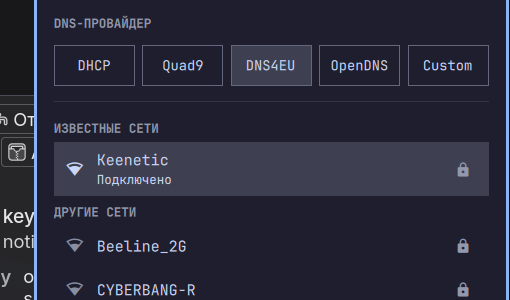
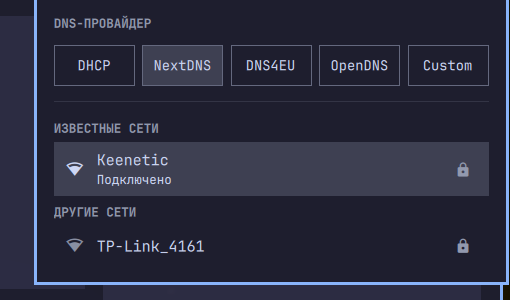
1.1.1: NextDNS replaces Quad9, prompt-only, tested-in-RU notes

diff --git a/Panel.qml b/Panel.qml
@@ -138,7 +138,7 @@ Panel {
   readonly property bool speedHeaderHasCursor: cursorActive && focusSection === "header" && headerIndex === speedHeaderIndex
   readonly property bool toggleHeaderHasCursor: cursorActive && focusSection === "header" && headerIndex === toggleHeaderIndex
   readonly property string toggleHint: Networking.wifiEnabled ? "Выключить Wi-Fi" : "Включить Wi-Fi"
-  readonly property var dnsProviders: ["DHCP", "Quad9", "DNS4EU", "OpenDNS", "Custom"]
+  readonly property var dnsProviders: ["DHCP", "NextDNS", "DNS4EU", "OpenDNS", "Custom"]
   property int dnsIndex: 0
   // ["2.4", "5", ...], or empty when there is nothing to choose between.
   // Wi-Fi only: on Ethernet the band of a secondary radio is not what the
@@ -1434,9 +1434,9 @@ Panel {
           }
 
           DnsProviderPill {
-            provider: "Quad9"
+            provider: "NextDNS"
             index: 1
-            tooltipText: "Set DNS to Quad9 (9.9.9.9)"
+            tooltipText: "Задать DNS NextDNS (45.90.28.0)"
             width: dnsRow.cellWidth
             onClicked: root.setDns(provider)
           }

diff --git a/README.md b/README.md
@@ -2,13 +2,13 @@
 
 ## Зачем / Why
 
-**RU:** Стоковый виджет предлагает Cloudflare (1.1.1.1) и Google (8.8.8.8) — оба заблокированы/заглушены в России. Этот форк меняет пилюли на рабочие: Quad9 (9.9.9.9), DNS4EU (86.54.11.100), OpenDNS + Custom. DNS4EU заменил мёртвый dns0.eu (не отвечает больше года): для России это рабочий и быстрый вариант (~1 мс, замерено), плюс EU-юрисдикция. Плюс: виджет обновляет состояние после смены DNS (в стоке залипает «нет подключения»). Временное решение, пока мейнтейнеры не разрешат локальные пресеты (upstream issue: RU DNS presets).
+**RU:** Стоковый виджет предлагает Cloudflare (1.1.1.1) и Google (8.8.8.8) — оба заблокированы/заглушены в России. Этот форк меняет пилюли на рабочие: NextDNS (45.90.28.0, DoT), DNS4EU (86.54.11.100), OpenDNS + Custom. DNS4EU заменил мёртвый dns0.eu (не отвечает больше года): для России это рабочий и быстрый вариант (~1 мс, замерено), плюс EU-юрисдикция. Плюс: виджет обновляет состояние после смены DNS (в стоке залипает «нет подключения»). Все варианты проверены методом испытаний в реальных условиях; на момент выбора они не блокировались. Временное решение, пока мейнтейнеры не разрешат локальные пресеты (upstream issue: RU DNS presets).
 
-**EN:** Stock pills (Cloudflare, Google) are blocked/throttled in Russia. This fork ships working presets — Quad9 (9.9.9.9), DNS4EU (86.54.11.100), OpenDNS + Custom. DNS4EU replaces dead dns0.eu (unresponsive for over a year): for Russia it is a working, fast option (~1 ms measured) under EU jurisdiction — and refreshes widget state after a DNS switch (stock sticks on "no connection"). Temporary until maintainers allow locale DNS presets.
+**EN:** Stock pills (Cloudflare, Google) are blocked/throttled in Russia. This fork ships working presets — NextDNS (45.90.28.0, DoT), DNS4EU (86.54.11.100), OpenDNS + Custom. DNS4EU replaces dead dns0.eu (unresponsive for over a year): for Russia it is a working, fast option (~1 ms measured) under EU jurisdiction — and refreshes widget state after a DNS switch (stock sticks on "no connection"). Temporary until maintainers allow locale DNS presets.
 
 ## Что изменено / Changes vs stock `omarchy.network`
 
-1. `dnsProviders`: `[DHCP, Quad9, DNS4EU, OpenDNS, Custom]` (было: DHCP, Cloudflare, Google, Custom).
+1. `dnsProviders`: `[DHCP, NextDNS, DNS4EU, OpenDNS, Custom]` (было: DHCP, Cloudflare, Google, Custom).
 2. Тултипы пилюль + `root.refresh()` после смены DNS (`onExited`).
 3. Остальное — сток.
 
@@ -18,8 +18,8 @@
 ./install.sh
 ```
 
-Перезапустить шелл: `omarchy-restart-shell`. Смена DNS требует root один раз
-(см. upstream: парольное sudo-правило `omarchy-dns` или polkit-агент).
+Перезапустить шелл: `omarchy-restart-shell`. Смена DNS идёт только через
+auth-диалог polkit-агента (каждый клик).
 
 **Про sudo: переключение ТОЛЬКО с запросом.** Каждый клик по пилюле
 показывает auth-диалог через polkit-агента. Тихого (парольного) режима нет

diff --git a/SECURITY.md b/SECURITY.md
@@ -15,7 +15,7 @@ NetworkManager — действие уровня root, и единственны
 - **Нет агента — нет переключения** (fail-closed): диалог показать некому,
   пилюля молча не срабатывает. Это безопасный отказ; живучесть агента
   проверяет хук (`polkit-agent`). Хуже было бы наоборот — тихое «получилось».
-- **Значения пилюль — код** (`DHCP/Quad9/DNS0.eu/...`): опечатка = несматченный
+- **Значения пилюль — код** (`DHCP/NextDNS/DNS4EU/...`): опечатка = несматченный
   провайдер = отказ. Поэтому старые написания оставлены алиасами в скрипте.
 - **После смены — флэп соединения**: NM перезагружает стек, виджет тянет
   свежее состояние (`refresh()`), секунду может казаться «нет подключения».
